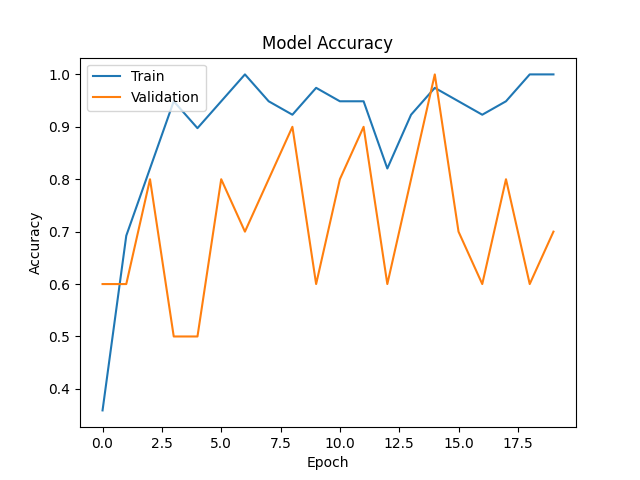
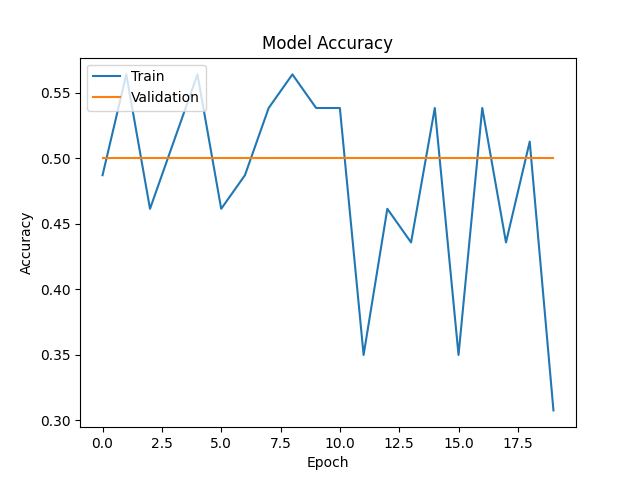
added cropping of image to focus soley on one  main difference

diff --git a/model.py b/model.py
@@ -1,15 +1,50 @@
 import tensorflow as tensorflow
+import tensorflow as tf
 from tensorflow.keras import layers, models
 from tensorflow.keras.applications import MobileNetV2
 from tensorflow.keras.callbacks import EarlyStopping
 from tensorflow.keras.preprocessing import image # TODO: same import? might be a bit redundant
 from tensorflow.keras.preprocessing.image import ImageDataGenerator
+from tensorflow.keras.applications.mobilenet_v2 import preprocess_input
+import numpy as np
 import matplotlib.pyplot as plt
 
 image_path = './images'
 
+
+def crop_and_preprocess(image_array, target_size=(224, 224)):
+    """
+    Crop the image to focus on the specific area of interest, resize it to the target size,
+    and apply MobileNetV2 preprocessing.
+
+    Args:
+    - image_array: The image array (NumPy array).
+    - target_size: The target size to resize the image after cropping.
+
+    Returns:
+    - A NumPy array of the preprocessed image.
+    """
+    # Crop the image
+    height, width = image_array.shape[:2]
+    start_row = 0
+    start_col = width // 8
+    end_row = height // 3
+    end_col = 7 * width // 8  # Adjusted to ensure the cropped area maintains aspect ratio
+    cropped_image = image_array[start_row:end_row, start_col:end_col, :]
+    
+    # Resize the cropped image to the target size
+    resized_image = tf.image.resize(cropped_image, target_size)
+    
+    # Apply MobileNetV2 preprocessing
+    preprocessed_image = preprocess_input(resized_image)
+    
+    return preprocessed_image.numpy()  # Convert back to NumPy array if needed
+
+
+
 # Genrate training data with data augmentation
 train_datagen = ImageDataGenerator(
+    preprocessing_function=lambda x: crop_and_preprocess(x, target_size=(224, 224)),
     rescale=1./255,
     rotation_range=40,
     width_shift_range=0.2,
@@ -45,11 +80,11 @@ base_model = MobileNetV2(weights='imagenet', include_top=False, input_shape=(224
 for layer in base_model.layers:
     layer.trainable = False
 
-
 model = models.Sequential([
     base_model,
     layers.GlobalAveragePooling2D(),  # Add global average pooling layer
     layers.Dense(64, activation='relu'),
+    layers.Dense(24, activation='relu'),
     layers.Dense(1, activation='sigmoid')  # Sigmoid for binary classification
 ])
 
@@ -64,7 +99,6 @@ history = model.fit(
     callbacks=[EarlyStopping(monitor='val_loss', patience=10)]
 )
 
-
 # Plot training and validation accuracy
 plt.plot(history.history['accuracy'])
 plt.plot(history.history['val_accuracy'])
@@ -75,6 +109,7 @@ plt.legend(['Train', 'Validation'], loc='upper left')
 plt.savefig('accuracy_graph.png')
 
 # Plot training and validation loss
+plt.figure()  # Create a new figure for the loss graph
 plt.plot(history.history['loss'])
 plt.plot(history.history['val_loss'])
 plt.title('Model Loss')

diff --git a/utils.py b/utils.py
@@ -6,6 +6,11 @@ import csv
 from tensorflow.keras.preprocessing import image
 import datetime
 from datetime import timedelta
+import matplotlib.patches as patches
+from PIL import Image
+import numpy as np
+import matplotlib.pyplot as plt
+
 
 def load_and_preprocess_image(image_path, target_size=(224, 224)):
     img = image.load_img(image_path, target_size=target_size)
@@ -168,3 +173,53 @@ def get_day_of_week_stats(data):
         day_stats[day_of_week]['total_minutes'] += int(row['total_standing_minutes'])
         day_stats[day_of_week]['total_sessions'] += int(row['total_sessions'])
     return day_stats
+
+def crop_top_middle(image_array):
+    """
+    There is a mark on my wall only visible when desk is in standing position, this captures that general area.
+    It returns only the cropped area, making the job easier for the model.
+    """
+    height, width = image_array.shape[:2]
+    start_row = 0
+    start_col = width // 8
+    end_row = height // 3
+    end_col = 2 * width // 4
+    return image_array[start_row:end_row, start_col:end_col, :]
+
+
+def show_scrop_top_middle():
+    # Load your images
+    image_path1 = './images/standing/standing18.jpg'
+    image_path2 = './images/standing/standing19.jpg'
+    image1 = Image.open(image_path1)
+    image2 = Image.open(image_path2)
+    image_array1 = np.array(image1)
+    image_array2 = np.array(image2)
+    height1, width1 = image_array1.shape[:2]
+    height2, width2 = image_array2.shape[:2]
+
+    # Crop the images
+    cropped_image_array1 = crop_top_middle(image_array1)
+    cropped_image_array2 = crop_top_middle(image_array2)
+
+    # Visualize the crops
+    fig, (ax1, ax2) = plt.subplots(1, 2, figsize=(12, 6))
+    # Original images with the crop areas marked
+    ax1.imshow(image_array1)
+    rect1 = patches.Rectangle((width1 // 4, 0), width1 // 2, height1 // 2, linewidth=1, edgecolor='r', facecolor='none')
+    ax1.add_patch(rect1)
+    ax1.set_xlim(0, width1)
+    ax1.set_ylim(height1, 0)  # Reverse the y-axis
+
+    ax2.imshow(image_array2)
+    rect2 = patches.Rectangle((width2 // 4, 0), width2 // 2, height2 // 2, linewidth=1, edgecolor='r', facecolor='none')
+    ax2.add_patch(rect2)
+    ax2.set_xlim(0, width2)
+    ax2.set_ylim(height2, 0)  # Reverse the y-axis
+
+    # Cropped images
+    fig, (ax3, ax4) = plt.subplots(1, 2, figsize=(12, 6))
+    ax3.imshow(cropped_image_array1)
+    ax4.imshow(cropped_image_array2)
+
+    plt.show()

diff --git a/main.py b/main.py
@@ -4,11 +4,11 @@ from classes import JobState
 from gui import create_gui
 
 
-create_gui()
-# job_state = JobState()
-# schedule.every(1).minutes.do(job_state.capture_and_process)
+# create_gui()
+job_state = JobState()
+schedule.every(1).minutes.do(job_state.capture_and_process)
 # # job_state.open()
 
-# while True:
-#     schedule.run_pending()
-#     time.sleep(1)
+while True:
+    schedule.run_pending()
+    time.sleep(1)

diff --git a/classes.py b/classes.py
@@ -5,6 +5,7 @@ from gui import create_gui
 from utils import capture_image, classify_image, update_csv
 from model import model
 
+# TODO: If prediction goes from standing - sitting - standiing, it's likely the middle prediction is wrong.
 
 class JobState:
     def __init__(self):

diff --git a/gui.py b/gui.py
@@ -80,7 +80,7 @@ def create_gui():
     window.show()
     sys.exit(app.exec_())
 
-if __name__ == '__main__':
-    create_gui()
+# if __name__ == '__main__':
+#     create_gui()
 
-create_gui()
+# create_gui()
